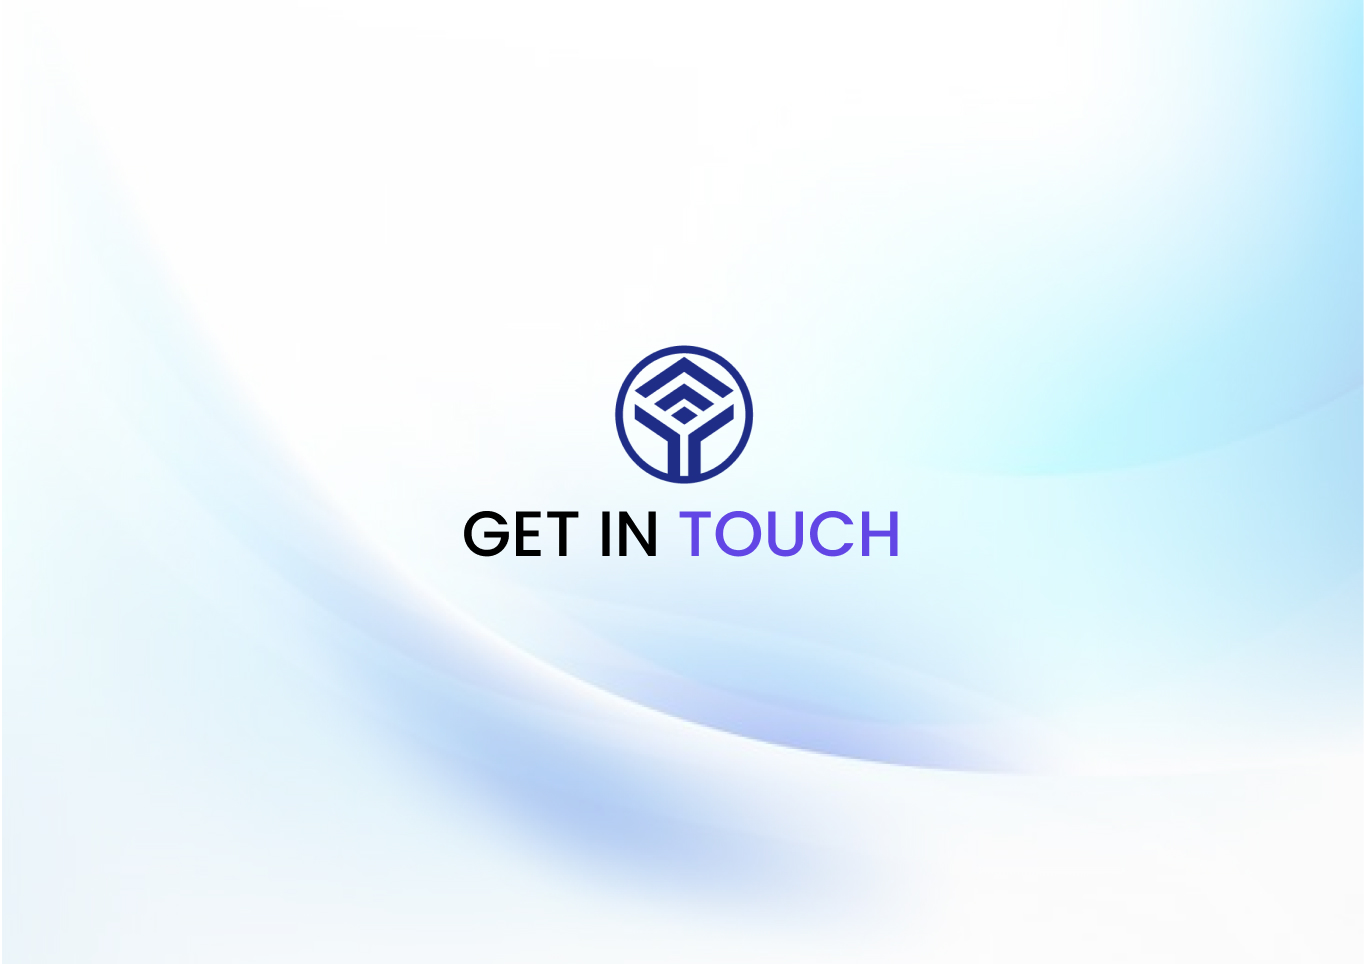
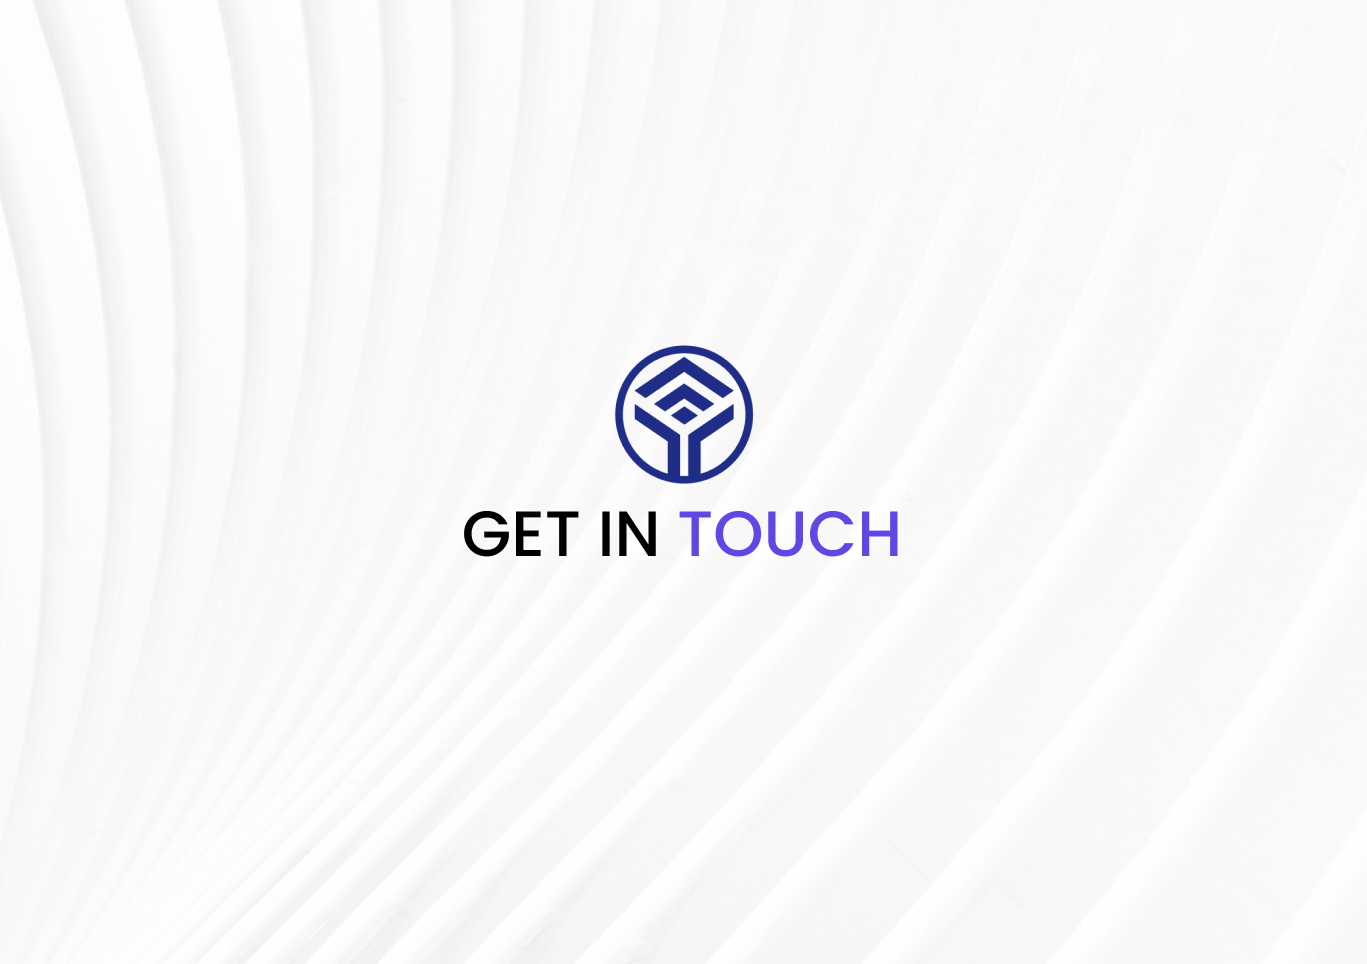
all done with speving

Changed region(s): [[0.1536, 0.0, 1.0, 0.9647]]

diff --git a/resources/views/website/pages/aboutus.blade.php b/resources/views/website/pages/aboutus.blade.php
@@ -255,7 +255,7 @@ We are a fiduciary to our clients. We’re investing for the future on behalf of
                             class="card_image" />
                     </div>
                     <div class="card_body mt-4">
-                        <p class="d-flex justify-content-center text-align-center">To Prioritize your goals.</p>
+                        <p class="d-flex justify-content-center text-align-center">To prioritize your goals.</p>
                     </div>
                     <div class="card_footer">
                     </div>
@@ -299,7 +299,7 @@ We are a fiduciary to our clients. We’re investing for the future on behalf of
                             class="card_image" />
                     </div>
                     <div class="card_body mt-4">
-                        <p class="d-flex justify-content-center text-align-center">Optimal monetary benefit oriented approach.</p>
+                        <p class="d-flex justify-content-center text-align-center">Optimal monetary benefit-oriented approach.</p>
                     </div>
                     <div class="card_footer">
                     </div>

diff --git a/resources/views/website/pages/contactus.blade.php b/resources/views/website/pages/contactus.blade.php
@@ -8,7 +8,7 @@
             <div class="row">
                 <div class="col-md-12 g-0">
                     <div class="logo image-fluid">
-                        <img src="{{ asset('website/images/get_in_touch.png') }}" width="100%">
+                        <img src="{{ asset('website/images/get_in_touch.jpg') }}" width="100%">
                     </div>
                 </div>
             </div>
